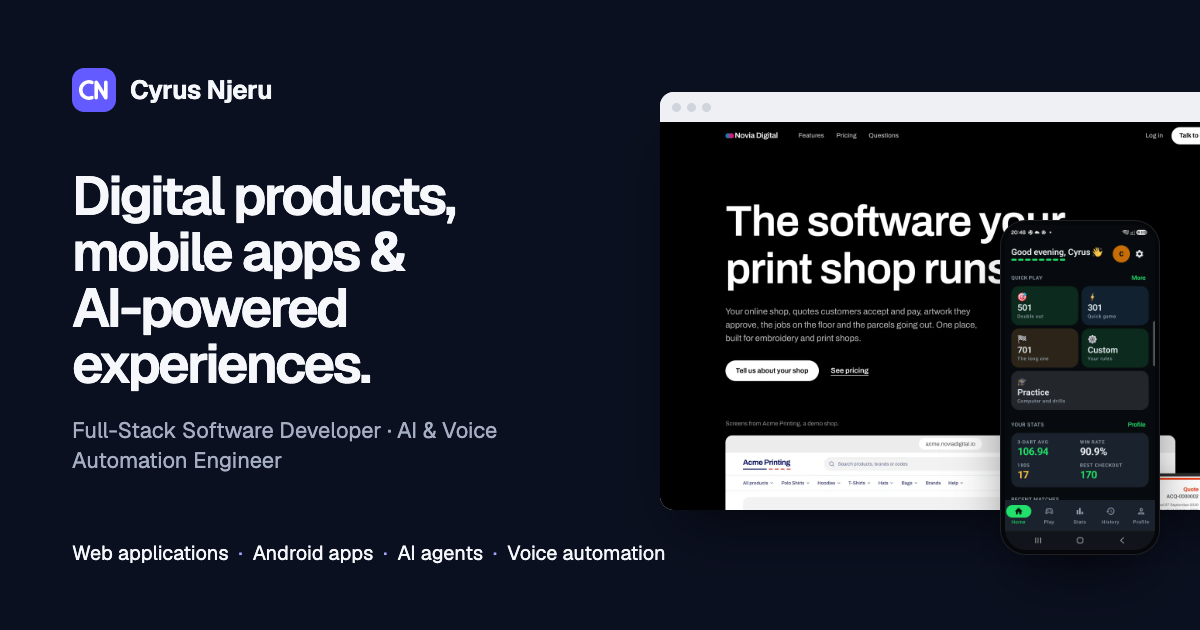
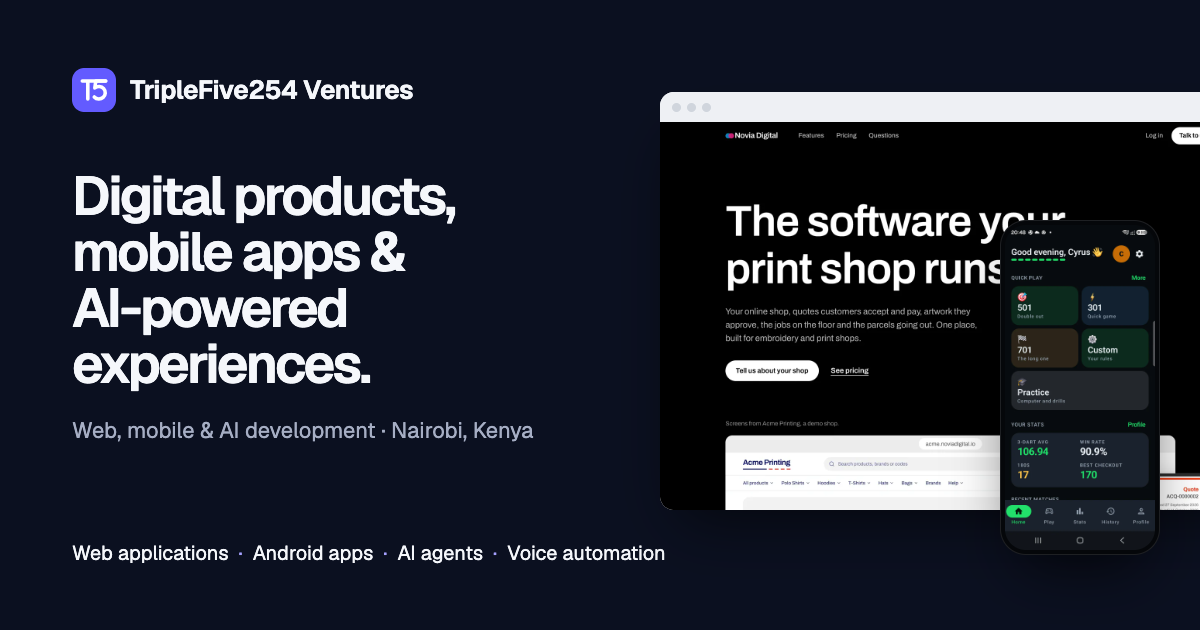
Rebrand site as TripleFive254 Ventures with Cyrus Njeru as founder
Present the site as a Nairobi-based technology company: new T5 logo mark,
favicons and social image, company voice throughout, a Services section,
an About section with a founder card, and Organization structured data
naming the founder. Projects are presented as the founder's track record.

Changed region(s): [[0.0617, 0.1206, 0.3392, 0.181], [0.0617, 0.6635, 0.4625, 0.6937], [0.0617, 0.7238, 0.2467, 0.754]]

diff --git a/src/data/projects.ts b/src/data/projects.ts
@@ -6,7 +6,10 @@
 // 26 October 2026. Technologies listed under `tags` and `stack` are only those
 // that could be confirmed from the outside (response headers, page source, store
 // listing). Add your own stack details (e.g. Kotlin, Jetpack Compose, Django)
-// once you have confirmed them, and fill in `role` to describe your part.
+// once you have confirmed them, and fill in `role` to describe the founder's part.
+//
+// These projects are presented as the founder's track record, not as client
+// work delivered by TripleFive254 Ventures, so write `role` in those terms.
 //
 // Image paths are relative to /public. Run `npm run images` after adding raw
 // screenshots; a missing image falls back to a labelled placeholder. A website's
@@ -57,7 +60,7 @@ export interface Project {
   overview: string[];
   purpose?: string;
   features: string[];
-  /** Your part in the project. Shown only when filled in. */
+  /** The founder's part in the project. Shown only when filled in. */
   role?: string[];
   implementation?: string[];
   stack: string[];
@@ -334,7 +337,7 @@ export const projects: Project[] = [
       'Checkout through Stripe payment links.',
     ],
     role: [
-      'I’m part of the Macaws.ai team on engineering: the integrations underneath the products, the part that makes Signal, Nexus and a business’s diary talk to each other.',
+      'Our founder, Cyrus Njeru, is part of the Macaws.ai engineering team, working on the integrations underneath the products: the part that makes Signal, Nexus and a business’s diary talk to each other.',
     ],
     implementation: [
       'Marketing site deployed on Vercel, with Signal, Nexus and the Google audit running on their own subdomains.',
@@ -572,7 +575,7 @@ export const projects: Project[] = [
     ground: '#101828',
     links: [{ kind: 'contact', label: 'Discuss an AI project', href: '#contact' }],
     overview: [
-      'I build AI agents and voice agents with Retell AI and integrate them into websites and business systems. A voice agent can answer a phone call or a website visitor, hold a natural conversation, and act on what it hears: look something up, book an appointment or pass the details on.',
+      'We build AI agents and voice agents with Retell AI and integrate them into websites and business systems. A voice agent can answer a phone call or a website visitor, hold a natural conversation, and act on what it hears: look something up, book an appointment or pass the details on.',
       'The work that makes an agent useful is usually the integration: giving it the right information during the call and making sure what it learns ends up in the systems the business already uses.',
     ],
     features: [
@@ -588,7 +591,7 @@ export const projects: Project[] = [
     ],
     note: 'This entry describes a capability rather than one named project. Screenshots, a demo, audio samples or an anonymised case study will be added here as they become available to share.',
     gallery: [],
-    related: [{ slug: 'macaws-ai', note: 'Signal, the AI receptionist I work on integrations for' }],
+    related: [{ slug: 'macaws-ai', note: 'Signal, the AI receptionist our founder works on integrations for' }],
     sources: [],
   },
 ];

diff --git a/src/config/site.ts b/src/config/site.ts
@@ -1,13 +1,31 @@
-// Central site settings. Everything personal that appears on the site
-// (contact details, profiles, the contact form's destination) is set here.
+// Central site settings. The business details, the founder, contact details,
+// profiles and the contact form's destination are all set here.
 
 export const site = {
-  name: 'Cyrus Njeru',
-  role: 'Full-Stack Software Developer',
-  headline: 'Full-Stack Software Developer | AI & Voice Automation Engineer',
+  name: 'TripleFive254 Ventures',
+  /** Short line used in page titles, the footer and the social image. */
+  tagline: 'Web, Mobile & AI Development',
   description:
-    'Cyrus Njeru is a full-stack software developer building web applications, Android apps, AI agents and voice automation systems that solve real-world problems.',
+    'TripleFive254 Ventures is a technology company in Nairobi, Kenya, building web applications, Android apps, AI agents and voice automation. Founded by Cyrus Njeru.',
   locale: 'en_GB',
+
+  /** Where the business is based. Shown in the footer and contact section, and given to search engines. */
+  location: {
+    city: 'Nairobi',
+    country: 'Kenya',
+    countryCode: 'KE',
+  },
+
+  founder: {
+    name: 'Cyrus Njeru',
+    title: 'Founder',
+    headline: 'Full-Stack Software Developer | AI & Voice Automation Engineer',
+    /**
+     * Founder photo, relative to /public. Built by `npm run images` from the photo
+     * downloaded by `npm run assets:fetch`. Leave empty to show no photo.
+     */
+    portrait: 'images/cyrus.webp',
+  },
 
   /**
    * Public contact email. Leave empty to hide every email button and link.
@@ -15,7 +33,7 @@ export const site = {
    */
   email: 'cyrus@macaws.ai',
 
-  /** Public profile URLs. Leave a value empty to hide that link everywhere. */
+  /** The founder's public profiles. Leave a value empty to hide that link everywhere. */
   social: {
     github: 'https://github.com/njerucyrus',
     linkedin: 'https://www.linkedin.com/in/njeru-cyrus/',
@@ -31,18 +49,12 @@ export const site = {
    * plainly that the form is not connected yet.
    */
   contactFormEndpoint: '',
-
-  /**
-   * Profile photo, relative to /public. Built by `npm run images` from the photo
-   * downloaded by `npm run assets:fetch`. Leave empty to show no photo.
-   */
-  portrait: 'images/cyrus.webp',
 } as const;
 
 export const nav = [
   { label: 'Home', hash: 'top' },
-  { label: 'Projects', hash: 'work' },
-  { label: 'Expertise', hash: 'expertise' },
+  { label: 'Work', hash: 'work' },
+  { label: 'Services', hash: 'services' },
   { label: 'About', hash: 'about' },
   { label: 'Contact', hash: 'contact' },
 ] as const;

diff --git a/src/scripts/contact.ts b/src/scripts/contact.ts
@@ -61,7 +61,7 @@ function setup(form: HTMLFormElement) {
     if (email) {
       return `<a class="btn btn-dark btn-sm" href="${escape(mailto())}">Open it in your email app</a>`;
     }
-    if (github) return `For now, you can reach me through <a href="${escape(github)}" target="_blank" rel="noopener noreferrer">GitHub</a>.`;
+    if (github) return `For now, you can reach our founder through <a href="${escape(github)}" target="_blank" rel="noopener noreferrer">GitHub</a>.`;
     return '';
   };
 
@@ -102,7 +102,7 @@ function setup(form: HTMLFormElement) {
         body: JSON.stringify({ name: value('name'), email: value('email'), subject: value('subject'), message: value('message') }),
       });
       if (!response.ok) throw new Error(`HTTP ${response.status}`);
-      show('success', `<p><strong>Thanks, ${escape(value('name'))}. Your message has been sent.</strong> I’ll reply to ${escape(value('email'))}.</p>`);
+      show('success', `<p><strong>Thanks, ${escape(value('name'))}. Your message has been sent.</strong> We’ll reply to ${escape(value('email'))}.</p>`);
       form.reset();
       attempted = false;
       fields.forEach((name) => control(name).removeAttribute('aria-invalid'));

diff --git a/README.md b/README.md
@@ -1,10 +1,15 @@
-# Cyrus Njeru · Portfolio
+# TripleFive254 Ventures · Website
 
-Personal portfolio for Cyrus Njeru, Full-Stack Software Developer. A static
-[Astro](https://astro.build) site deployed to GitHub Pages at
-**https://njerucyrus.github.io/portfolio/**.
+Website for TripleFive254 Ventures, a technology company in Nairobi, Kenya,
+founded by Cyrus Njeru. A static [Astro](https://astro.build) site deployed to
+GitHub Pages at **https://njerucyrus.github.io/portfolio/**.
 
-- Home page: hero, filterable project gallery, expertise, technical stack, about, process, contact
+The projects on the site are presented as the founder's track record: products
+Cyrus has built or worked on, not client work delivered by the company. Keep new
+entries and their `role` text in those terms unless a project was delivered
+through TripleFive254 Ventures.
+
+- Home page: hero, filterable project gallery (the founder's track record), services, technical stack, about and founder, process, contact
 - `/projects/` and a case-study page for every project at `/projects/<slug>/`
 - Real screenshots from each live website and Google Play listing, optimised to WebP
 - Contact form with validation and a pluggable submission endpoint
@@ -25,10 +30,11 @@ npm run preview    # serves dist/
 
 | To change… | Edit |
 | --- | --- |
-| Email, GitHub/LinkedIn, contact form endpoint, profile photo | `src/config/site.ts` |
+| Business name, tagline, location, founder details and photo, email, the founder's GitHub/LinkedIn, contact form endpoint | `src/config/site.ts` |
 | Projects (text, links, tags, screenshots, order) | `src/data/projects.ts` |
 | Filter categories | `src/data/categories.ts` |
-| Skills, expertise cards, process steps, about highlights | `src/data/skills.ts` |
+| Skills, service cards, process steps, about highlights | `src/data/skills.ts` |
+| Logo mark | `src/components/Logo.astro` and `mark` in `scripts/build-brand.mjs` (then `npm run brand`) |
 | Colours, type scale, spacing | `src/styles/global.css` (tokens at the top) |
 | Image sources (Play screenshots, pages to capture) | `scripts/asset-sources.mjs` |
 
@@ -39,7 +45,7 @@ site points nowhere.
 
 Add an entry to `projects` in `src/data/projects.ts`. The card, the filters, the
 `/projects/` page and the case-study page are generated from it. Sections such as
-`purpose`, `role` (your contribution) and `implementation` only appear when filled
+`purpose`, `role` (the founder's part) and `implementation` only appear when filled
 in. If an image is missing, the site shows a labelled placeholder rather than a
 broken image.
 
@@ -50,7 +56,7 @@ Raw captures go to `assets-src/` (git-ignored); optimised copies go to
 
 ```bash
 npm run assets           # all of the below, in order
-npm run assets:fetch     # Google Play screenshots and the profile photo
+npm run assets:fetch     # Google Play screenshots and the founder's photo
 npm run assets:capture   # live websites via Playwright (uses your installed Chrome)
 npm run images           # composes app covers, writes WebP sizes + src/data/image-manifest.json
 npm run brand            # favicons and the default social image
